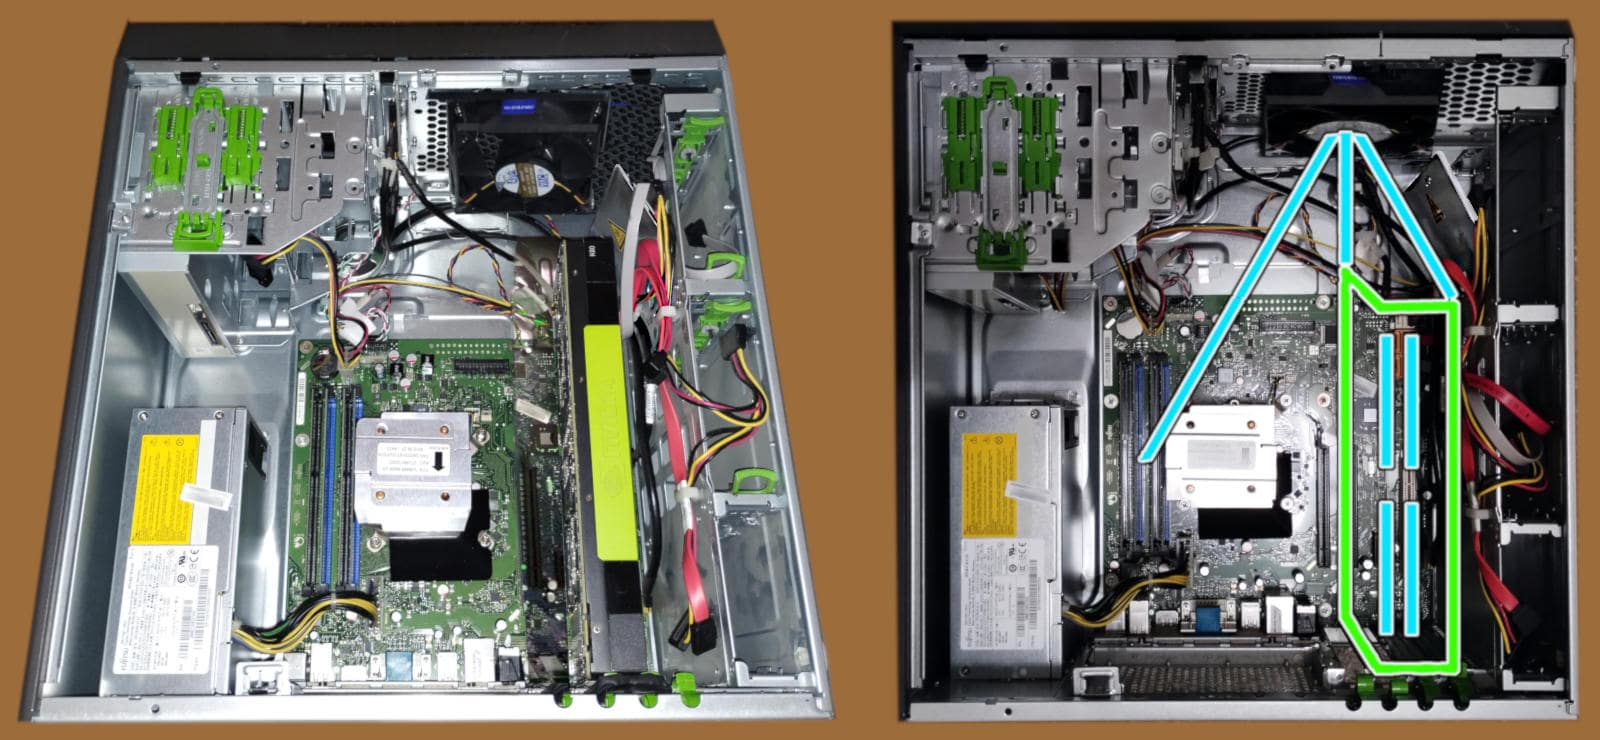
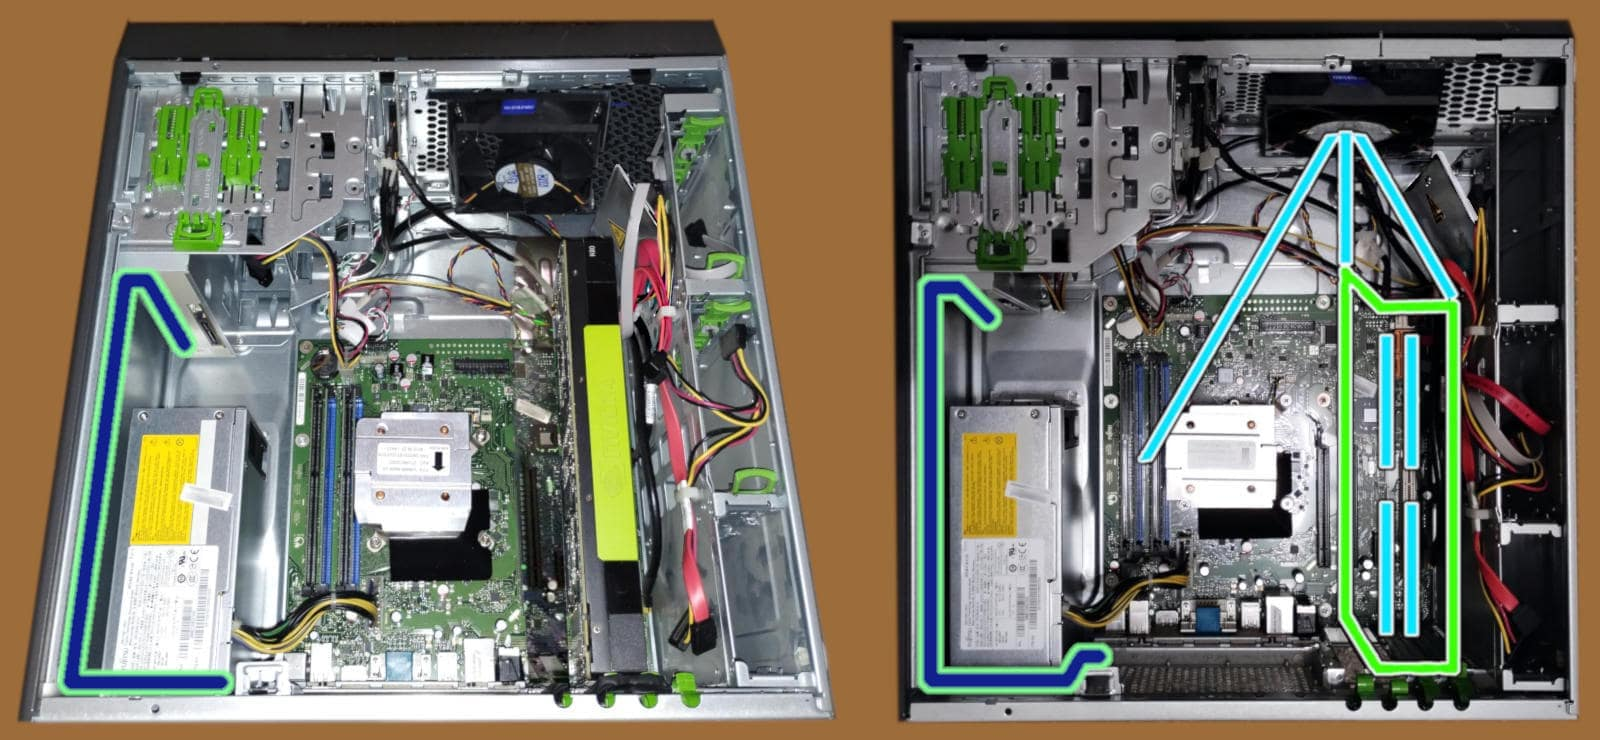
dual-psu-esprimo-p910-installation.md: a plug to push

Changed region(s): [[0.0312, 0.3419, 0.1562, 0.9635], [0.5625, 0.373, 0.7188, 0.9635]]

diff --git a/html/dual-psu-esprimo-p910-installation.html b/html/dual-psu-esprimo-p910-installation.html
@@ -18,7 +18,7 @@
 <style>#printlink { display: inline; } @page { size: legal; margin: 0.50in 13.88mm 0.50in 13.88mm; zoom: 100%; } @media print { html { zoom: 100%; } }</style>
 <p class='topbar'></p>
 <div class='topbar' width='800px' translate='no'><b id='menu' onClick='nextStylesheet()'>&thinsp;&#9783;&thinsp;&Ropf;</b> &thinsp;&mdash;&thinsp; &#8543;&#8239;release: <b class='topbar'>2025-02-05&nbsp;<sup class='date-type topbar' id='datenote'>(&hairsp;<a href='#date-legenda' class='date-type topbar'>1</a>&hairsp;)</sup></b>  &thinsp;&mdash;&thinsp; rev.: <b class='topbar
-'>1</b rev_num='
+'>2</b rev_num='
 '> &thinsp;&mdash;&thinsp; transl.:&nbsp; <a class='topbar' href='https://robang74-github-io.translate.goog/chatbots-for-fun/html/dual-psu-esprimo-p910-installation?_x_tr_sl=en&_x_tr_tl=it&_x_tr_hl=it-IT&_x_tr_pto=wapp' target='_blank' rel='noopener noreferrer'>IT</a> &nbsp;<b>&middot;</b>&nbsp; <a class='topbar' href='https://robang74-github-io.translate.goog/chatbots-for-fun/html/dual-psu-esprimo-p910-installation?_x_tr_sl=en&_x_tr_tl=de&_x_tr_hl=de-DE&_x_tr_pto=wapp' target='_blank' rel='noopener noreferrer'>DE</a> &nbsp;<b>&middot;</b>&nbsp; <a class='topbar' href='https://robang74-github-io.translate.goog/chatbots-for-fun/html/dual-psu-esprimo-p910-installation?_x_tr_sl=en&_x_tr_tl=fr&_x_tr_hl=fr-FR&_x_tr_pto=wapp' target='_blank' rel='noopener noreferrer'>FR</a> &nbsp;<b>&middot;</b>&nbsp; <a class='topbar' href='https://robang74-github-io.translate.goog/chatbots-for-fun/html/dual-psu-esprimo-p910-installation?_x_tr_sl=en&_x_tr_tl=es&_x_tr_hl=es-ES&_x_tr_pto=wapp' target='_blank' rel='noopener noreferrer'>ES</a> &thinsp;&mdash;&thinsp; goto:&nbsp; <a class='topbar' href='../index.html#index'>.&#x27F0;.</a> &nbsp;<b>&middot;</b>&nbsp; <a class='topbar' href='../../roberto-a-foglietta/index.html'target=_blank>RAF</a> &nbsp;<b>&middot;</b>&nbsp; <a class='topbar' href='../../chatgpt-answered-prompts/index.html'target=_blank>Q&A</a> <span id='printlink'>&thinsp;&mdash;&thinsp; <b>⎙</b>&hairsp;: <a aria-label='print this page' class='topbar' href='javascript:window.print()'>PDF</a></span>&nbsp;</div>
 <div id="firstdiv">
 <p class='topbar'></p>
@@ -96,15 +96,33 @@ Despite the relatively simplicity of the P910 model and the Fujitsu attitude to 
 <p></p>
 While in the top of the case there is an almost lack of cabling and reaching the first grid available for hosting a C14F plug is quite straightforward. There are not any locking points for the cable, but a nice 3M duct-tape will be enough to win the gravity.
 <p></p>
-Too nice and easy to be true... In fact, compared with opening a hole at the end of storage bays row, going to tackle metals and possibly spread conductive crumbs which would go around for the circuitry in a brisky mood... is not the most appealing scenario.
+<div class='center'>
+<img class="bwsketch" src="../img/esprimo-p910-cooling-preview.jpg" width="400">
+<br>
+<sup>right click menu to enlarge (x4) the image</sup>
+</div>
+<p></p>
+In this image above, the lime-green bordered blue lines indicate where the power cabling, from the front of the newly installed PSU, is going to find its way to end back in the rear of the tower case.
+<p></p>
+Too nice and easy to be true... In fact, compared with opening a hole at the end of data storage bays row, going to tackle metal grid over there and possibly spread conductive crumbs which might go around for the circuitry in a brisky mood... is not the most appealing scenario.
+<p></p>
+<div class='center'>
+<img class="bwsketch" src="../img/power-cabling-easy-to-deploy.png" width="400">
+<br>
+<sup>right click menu to enlarge (x4) the image</sup>
+</div>
+<p></p>
+For those wish to sleep well during the night or are more keen to take a short-cut, in the above image is protraited a cable which <a href="https://www.amazon.it/gp/product/B07P7WHQZD" target='_blank' rel='noopener noreferrer'>Amazon Italia</a> offers for €9.11 Prime delivery included.
+<p></p>
+Spoiler - pushing the power plug through the PCI slot opening, the closest one to the CPU, that 1.8mt cable will reach his destination to be connected with the public power network without the need to create new holes in the tower case.
+<p></p>
+This will cost you a PCI-express x4 mechanically x16, and the day someone will pull the power cord in a strong manner likely stumbling rather than walking over it, possibly also the CPU or the RAM will leave this world for a better one. <img class='emoji wbsketch' src='../img/emoji/wink.png'>
 <p></p>
 <br>
 <p></p>
 <tt>[... continuing ...]</tt>
 <p></p>
 <br>
-<p></p>
-<hr>
 <p></p>
 <H2 id="share-alike">Share alike</H2>
 <p></p>

diff --git a/dual-psu-esprimo-p910-installation.md b/dual-psu-esprimo-p910-installation.md
@@ -75,15 +75,33 @@ Despite the relatively simplicity of the P910 model and the Fujitsu attitude to 
 
 While in the top of the case there is an almost lack of cabling and reaching the first grid available for hosting a C14F plug is quite straightforward. There are not any locking points for the cable, but a nice 3M duct-tape will be enough to win the gravity.
 
-Too nice and easy to be true... In fact, compared with opening a hole at the end of storage bays row, going to tackle metals and possibly spread conductive crumbs which would go around for the circuitry in a brisky mood... is not the most appealing scenario.
+|x|>
+<img class="bwsketch" src="img/esprimo-p910-cooling-preview.jpg" width="400">
++
+<sup>right click menu to enlarge (x4) the image</sup>
+<|x|
+
+In this image above, the lime-green bordered blue lines indicate where the power cabling, from the front of the newly installed PSU, is going to find its way to end back in the rear of the tower case.
+
+Too nice and easy to be true... In fact, compared with opening a hole at the end of data storage bays row, going to tackle metal grid over there and possibly spread conductive crumbs which might go around for the circuitry in a brisky mood... is not the most appealing scenario.
+
+|x|>
+<img class="bwsketch" src="img/power-cabling-easy-to-deploy.png" width="400">
++
+<sup>right click menu to enlarge (x4) the image</sup>
+<|x|
+
+For those wish to sleep well during the night or are more keen to take a short-cut, in the above image is protraited a cable which [Amazon Italia](https://www.amazon.it/gp/product/B07P7WHQZD) offers for €9.11 Prime delivery included.
+
+Spoiler - pushing the power plug through the PCI slot opening, the closest one to the CPU, that 1.8mt cable will reach his destination to be connected with the public power network without the need to create new holes in the tower case.
+
+This will cost you a PCI-express x4 mechanically x16, and the day someone will pull the power cord in a strong manner likely stumbling rather than walking over it, possibly also the CPU or the RAM will leave this world for a better one. {;-)}
 
 +
 
 `[... continuing ...]`
 
 +
-
----
 
 ## Share alike
 
